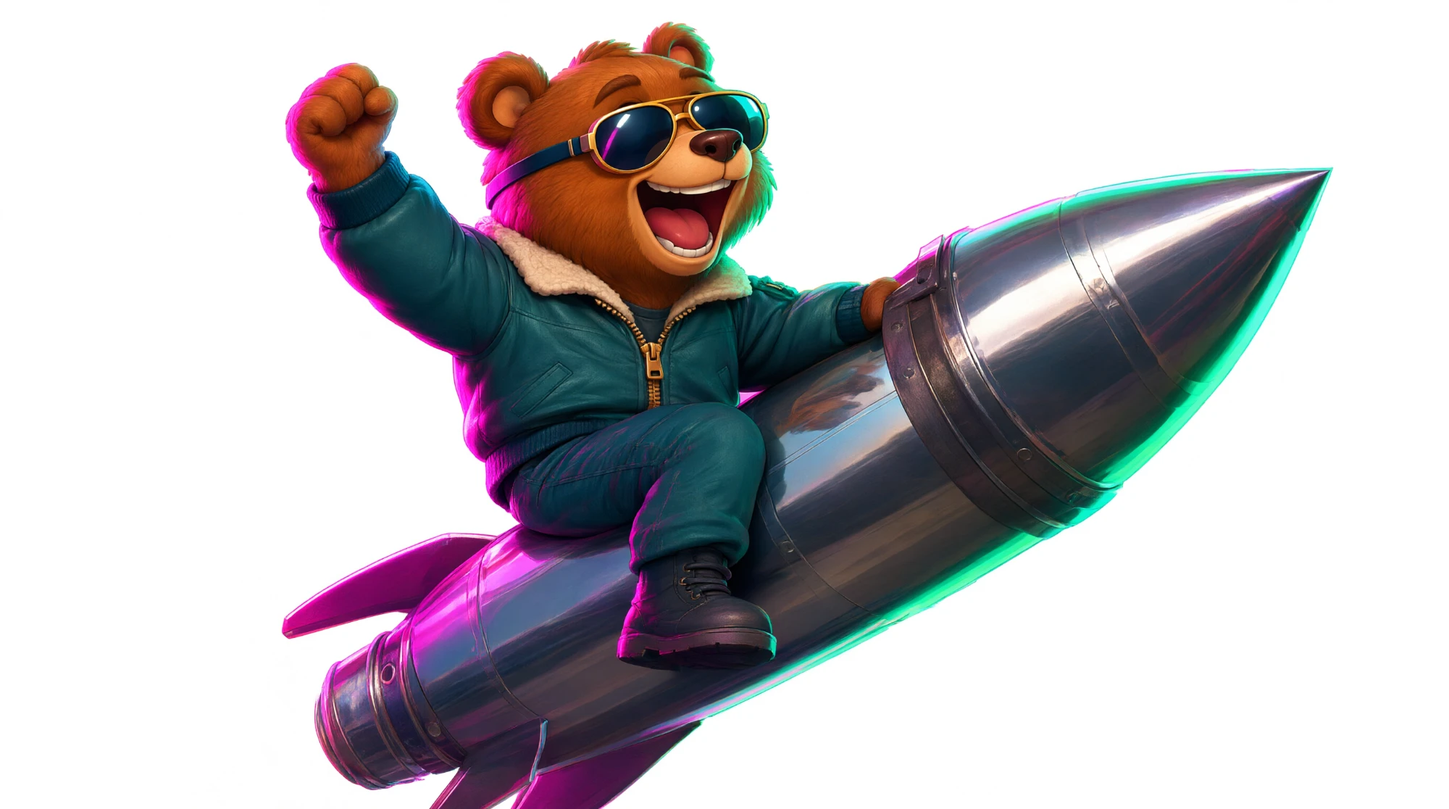
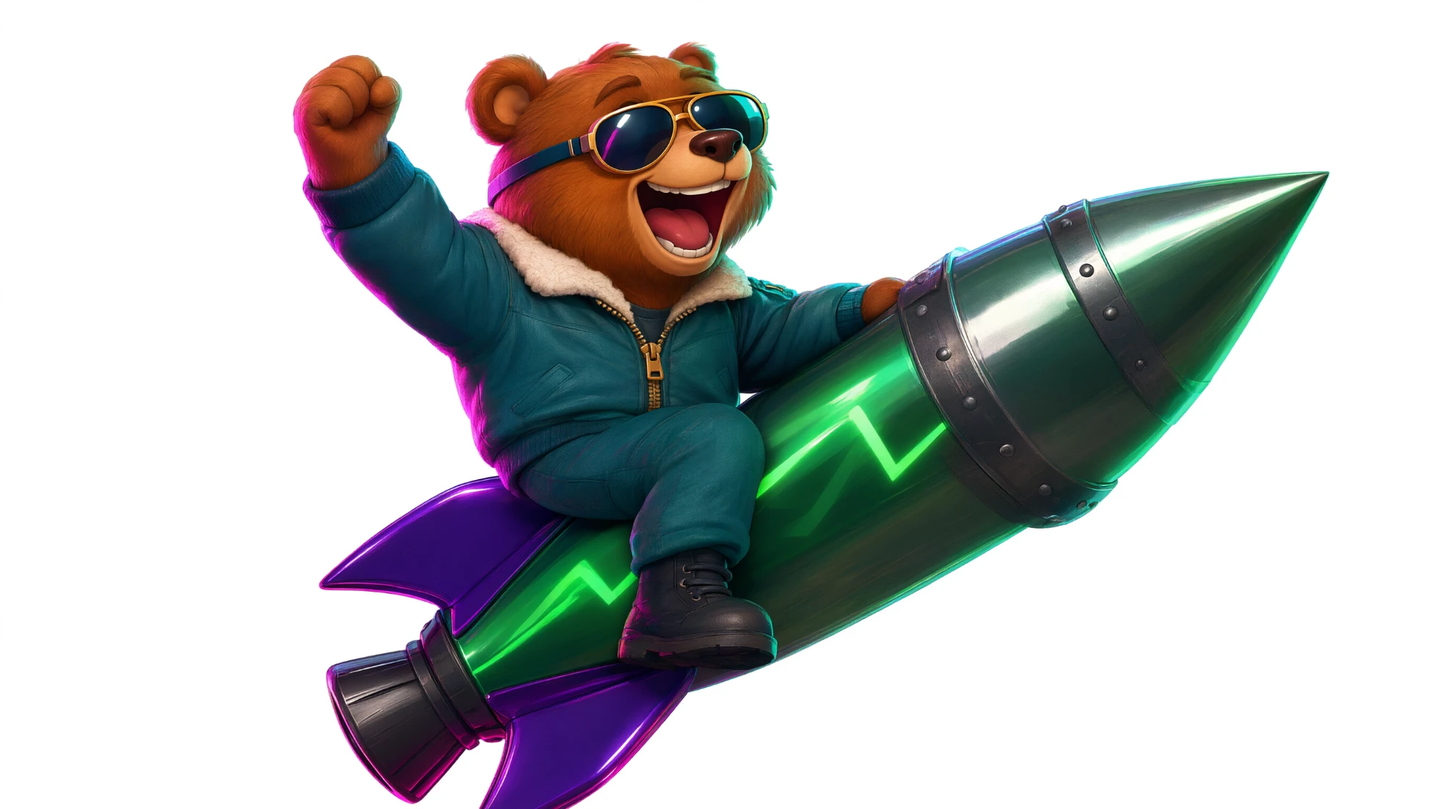
Bear art: the new green riding picture, straightened in the kit build
The generator's R1 picture (bear on a green riveted rocket) had its nose
bent 5.3 degrees up; the kit build now straightens each riding picture
from its landmarks (straighten.py, with a flood-filled mask so chrome
glints count as rocket). The rocket is green already, so the silver
recolour is gone; the silver set moves to src/silver. The brief asks for
the calm and the empty edits of the straightened base.

diff --git a/app/proto/kit.html b/app/proto/kit.html
@@ -31,7 +31,23 @@ ul{margin:6px 0;padding-left:20px}li{margin:3px 0;color:#d6d3ee}
 </style>
 <main>
 <h1>Медведь и ракета: что сгенерировать</h1>
-<p>Чтобы персонаж выглядел как на заставке, а не собранным из фигур, рисуем его генератором изображений, а игра потом анимирует готовые картинки: двигает тело, меняет головы с эмоциями, качает на парашюте. Готово: 2–10. Сейчас нужны R1 и R2 (первые зелёные блоки): медведь на готовой прямой зелёной ракете.</p>
+<p>Чтобы персонаж выглядел как на заставке, а не собранным из фигур, рисуем его генератором изображений, а игра потом анимирует готовые картинки: двигает тело, меняет головы с эмоциями, качает на парашюте. Готово: 2–10 и R1. Сейчас нужны две правки картинки R1: спокойный медведь (R2) и ракета без медведя (R4).</p>
+
+<div class="box new">
+  <h2>Сейчас: две правки картинки R1</h2>
+  <p>Картинка R1 получилась отличной. Нос у ракеты был загнут вверх на 5°, его уже выпрямили: ниже выпрямленная основа. Каждую правку делайте <b>от этой основы</b>, а не от предыдущего результата: так ракета и кадр совпадут на всех картинках, и смена эмоции в игре не будет заметна как подмена.</p>
+  <figure style="margin:10px 0 0"><img src="ride-base.jpg" alt="Медведь на прямой зелёной ракете, выпрямленная основа" style="width:100%;border-radius:12px;background:#fff;display:block"><figcaption class="muted" style="margin-top:4px">Основа: долгое нажатие → сохранить. <a href="ride-base.jpg" download style="color:var(--green)">Скачать файлом</a></figcaption></figure>
+  <p class="muted">В чате генератора прикрепите основу и дайте промпт R2. Для R4 снова прикрепите основу (не результат R2). Если нос в ответе опять чуть загнётся, ничего страшного: игра выпрямляет его сама.</p>
+</div>
+
+<div class="box new"><div class="step"><span class="num">R2</span><div><h2>Спокойный</h2><span class="file">ride-calm</span></div></div>
+<div class="prompt">Edit the attached picture. Keep everything exactly the same: the rocket (its shape, its perfectly straight line, its angle, size, position and colours), the bear's position, size, body and legs, the framing and the plain white background. Change only his arms and his face: the raised arm comes down and both paws hold the rocket's dark riveted band, a calm, confident closed-mouth smile.<button class="copy">Скопировать</button></div></div>
+
+<div class="box new"><div class="step"><span class="num">R4</span><div><h2>Ракета без медведя</h2><span class="file">ride-empty</span></div></div>
+<div class="prompt">Edit the attached picture: remove the bear completely. Keep the rocket exactly the same: its shape, its perfectly straight line, its angle, size, position and colours, the riveted bands, the fins and the nozzle. Where the bear covered the rocket, paint the rocket as it continues: the glossy green hull, the neon-green zig-zag line along the body, the complete dark band. No trace or shadow of the bear left. Keep the framing and the plain white background.<button class="copy">Скопировать</button></div></div>
+
+<div class="box new"><div class="step"><span class="num">R3</span><div><h2>В испуге (по желанию)</h2><span class="file">ride-scared</span></div></div>
+<div class="prompt">Edit the attached picture. Keep the rocket and the framing exactly the same and the bear in the same place and size. Change only his pose and his face: he clutches the rocket's dark band with both paws and leans back in fear, mouth open in a scream, eyebrows raised high above the glasses, a small sweat drop. Plain white background.<button class="copy">Скопировать</button></div></div>
 
 <div class="box">
   <h2>Перед началом</h2>
@@ -47,52 +63,52 @@ ul{margin:6px 0;padding-left:20px}li{margin:3px 0;color:#d6d3ee}
   </div>
 </div>
 
-<div class="box new">
+<div class="box">
   <h2>Самый надёжный способ: даём генератору готовую ракету (R1, R2)</h2>
   <p>Генератор рисует длинную ракету по диагонали с изгибом, сколько его ни проси. Поэтому даём ему уже готовую прямую зелёную ракету под нужным углом и просим только <b>добавить медведя</b>: при правке картинки он почти не трогает то, что на ней уже есть. Эта же картинка будет и ракетой без медведя, так что №10 не нужна.</p>
   <figure style="margin:10px 0 0"><img src="rocket-base.png" alt="Прямая зелёная ракета под углом полёта" style="width:100%;border-radius:12px;background:#fff;display:block"><figcaption class="muted" style="margin-top:4px">Основа: долгое нажатие → сохранить. <a href="rocket-base.png" download style="color:var(--green)">Скачать файлом</a></figcaption></figure>
   <p class="muted">В чате генератора прикрепите <b>основу</b> (первой) и <b>последнюю картинку медведя на зелёной ракете</b> (чтобы он взял медведя и позу), дайте промпт R1. Потом R2 как правку результата.</p>
 </div>
 
-<div class="box new"><div class="step"><span class="num">R1</span><div><h2>Добавить медведя на ракету</h2><span class="file">ride-hype</span></div></div>
+<div class="box"><div class="step"><span class="num">R1</span><div><h2>Добавить медведя на ракету</h2><span class="file">ride-hype</span></div></div>
 <div class="prompt">Edit the first attached picture (the green rocket on white). Do NOT change the rocket in any way: keep its shape, its perfectly straight line, its angle, size, position and colours, the zig-zag line, the band, the fins and the nozzle exactly as they are. The rocket must stay identical to the input picture; you may only paint over it where the bear covers it.
 
 Only add the bear from the other attached picture, sitting astride this rocket just behind the dark band, his body facing the nose: the near leg along the hull with the boot pressed against it, the far leg hidden behind the rocket, the far paw gripping the band, the near arm raised high with a clenched fist, an excited open-mouth laugh. A soft contact shadow of the bear on the hull, the hull reflecting his jacket.
 
 Keep the plain white background and the framing, the whole bear inside the picture.<button class="copy">Скопировать</button></div></div>
 
-<div class="box new"><div class="step"><span class="num">R2</span><div><h2>Он же, спокойный</h2><span class="file">ride-calm</span></div></div>
+<div class="box"><div class="step"><span class="num">R2</span><div><h2>Он же, спокойный</h2><span class="file">ride-calm</span></div></div>
 <div class="prompt">Edit the picture you just made. Keep everything exactly the same: the rocket, the bear's position, size and legs, the framing. Change only his arms and his face: both paws hold the rocket's dark band, a calm, confident smile. Plain white background.<button class="copy">Скопировать</button></div></div>
 
-<div class="box new"><div class="step"><span class="num">R3</span><div><h2>Он же, в испуге (по желанию)</h2><span class="file">ride-scared</span></div></div>
+<div class="box"><div class="step"><span class="num">R3</span><div><h2>Он же, в испуге (по желанию)</h2><span class="file">ride-scared</span></div></div>
 <div class="prompt">Edit the picture with the raised fist. Keep the rocket and the framing exactly the same and the bear in the same place. Change only his pose and his face: he clutches the rocket with both paws and leans back in fear, mouth open in a scream, eyebrows raised high above the glasses, a small sweat drop. Plain white background.<button class="copy">Скопировать</button></div></div>
 
-<div class="box new">
+<div class="box">
   <h2>Было: тот же медведь на старой зелёной ракете (7G, 8G, 10G)</h2>
   <p>Ракета в картинках 7–10 вышла серебряной и чуть изогнутой: нос отклонён от корпуса примерно на 6°. Перерисуем их со старой зелёной ракетой, она прямая.</p>
   <p class="muted">В чате генератора прикрепите <b>старую зелёную ракету</b> (картинка №6) и <b>картинку №7</b>, затем дайте промпт 7G. Потом 8G и 10G как правки получившейся картинки. Важно: ракета целиком в кадре, с соплом и стабилизаторами, с отступом от краёв.</p>
 </div>
 
-<div class="box new"><div class="step"><span class="num">7G</span><div><h2>Медведь верхом на зелёной ракете</h2><span class="file">ride-hype</span></div></div>
+<div class="box"><div class="step"><span class="num">7G</span><div><h2>Медведь верхом на зелёной ракете</h2><span class="file">ride-hype</span></div></div>
 <div class="prompt">Edit the attached picture of the bear riding the rocket: replace the rocket with the green rocket from the other attached picture, exactly its design: a glossy emerald-green chrome body, a pointed nose cone, a dark metal ring band behind the nose, a glowing neon-green zig-zag line along the body, violet-purple swept fins, a dark gunmetal nozzle.
 
 The rocket must be perfectly straight: the body and the nose on one straight axis. It flies diagonally up to the right at the same angle and size as now. Keep the bear exactly the same, in the same pose, sitting astride the rocket: the near leg along the hull with the boot pressed against it, the far leg hidden behind the rocket, the far paw on the band, the near arm raised with a fist, laughing; a soft contact shadow of the bear on the hull.
 
 The whole rocket inside the picture with a clear margin on every side, the nozzle and all the fins included. No flame, no smoke, no background: a plain pure white background.<button class="copy">Скопировать</button></div></div>
 
-<div class="box new"><div class="step"><span class="num">8G</span><div><h2>Он же, спокойный</h2><span class="file">ride-calm</span></div></div>
+<div class="box"><div class="step"><span class="num">8G</span><div><h2>Он же, спокойный</h2><span class="file">ride-calm</span></div></div>
 <div class="prompt">Edit the picture you just made. Keep everything else exactly the same: the green rocket, its position, angle and size, the bear's position, size and legs, the lighting and the framing. Change only his arms and his face: both paws now hold on to the rocket's dark band, a calm, confident smile. Plain pure white background.<button class="copy">Скопировать</button></div></div>
 
-<div class="box new"><div class="step"><span class="num">10G</span><div><h2>Зелёная ракета без медведя</h2><span class="file">ride-empty</span></div></div>
+<div class="box"><div class="step"><span class="num">10G</span><div><h2>Зелёная ракета без медведя</h2><span class="file">ride-empty</span></div></div>
 <div class="prompt">Edit the picture of the bear riding the green rocket (the one with the raised fist). Remove the bear completely and keep the rocket exactly the same: the same position, angle, size, lighting and framing. Where the bear was, show the rocket's hull, its zig-zag line and its band as they would look. Plain pure white background.<button class="copy">Скопировать</button></div></div>
 
-<div class="box new">
+<div class="box">
   <h2>Было: медведь на ракете одной картинкой (7–10)</h2>
   <p>Картинки 2–6 уже в прототипе. Но медведь, наклеенный на отдельную ракету, выглядит плоско: у них разная перспектива, он не обхватывает ракету ногами, нет тени и общего света. Поэтому рисуем их вместе, как на заставке. Игра будет двигать эту картинку целиком и добавит пламя и дым.</p>
   <p class="muted">Продолжайте в том же чате генератора, где делали медведя и ракету: так он сохранит их вид. Если начинаете новый чат, прикрепите заставку (референс 2), картинку «кулак вверх» и ракету.</p>
 </div>
 
-<div class="box new"><div class="step"><span class="num">7</span><div><h2>Медведь верхом на ракете</h2><span class="file">ride-hype</span>
+<div class="box"><div class="step"><span class="num">7</span><div><h2>Медведь верхом на ракете</h2><span class="file">ride-hype</span>
 <p class="muted">Главная картинка. Ракета по диагонали вверх-вправо, медведь сидит на ней верхом лицом к носу, кулак вверх. Без пламени и фона.</p></div></div>
 <div class="prompt">Use the attached pictures: the poster for the style and the composition, the bear and the rocket from before for the character and the rocket design.
 
@@ -102,15 +118,15 @@ He really sits ON the rocket: his weight presses on it, a soft contact shadow of
 
 No flame, no smoke, no stars, no sun, no background: only the rocket with the bear on a plain pure white background, the whole rocket inside the image with a margin. Glossy 3D cartoon render like the poster, synthwave rim light: hot pink from the left and below, neon cyan-green from the right. Square image.<button class="copy">Скопировать</button></div></div>
 
-<div class="box new"><div class="step"><span class="num">8</span><div><h2>Он же, спокойный</h2><span class="file">ride-calm</span>
+<div class="box"><div class="step"><span class="num">8</span><div><h2>Он же, спокойный</h2><span class="file">ride-calm</span>
 <p class="muted">Та же картинка, меняются только лапы и морда. Для площадки и первых секунд полёта.</p></div></div>
 <div class="prompt">Edit the picture you just made (the bear riding the rocket). Keep everything else exactly the same: the rocket, its position, angle and size, the bear's position, size and legs, the lighting and the framing. Change only his arms and his face: both paws now hold on to the rocket's dark band, a calm, confident smile. Plain pure white background.<button class="copy">Скопировать</button></div></div>
 
-<div class="box new"><div class="step"><span class="num">9</span><div><h2>Он же, в испуге</h2><span class="file">ride-scared</span>
+<div class="box"><div class="step"><span class="num">9</span><div><h2>Он же, в испуге</h2><span class="file">ride-scared</span>
 <p class="muted">Для момента, когда глохнет двигатель перед взрывом.</p></div></div>
 <div class="prompt">Edit the first picture of the bear riding the rocket (the one with the raised fist). Keep the rocket, its position, angle and size and the framing exactly the same, the bear in the same place. Change only his pose and face: he clutches the rocket with both paws and leans back in fear, mouth open in a scream, eyebrows raised high above the glasses, a small sweat drop. Plain pure white background.<button class="copy">Скопировать</button></div></div>
 
-<div class="box new"><div class="step"><span class="num">10</span><div><h2>Ракета без медведя</h2><span class="file">ride-empty</span>
+<div class="box"><div class="step"><span class="num">10</span><div><h2>Ракета без медведя</h2><span class="file">ride-empty</span>
 <p class="muted">Нужна для момента, когда медведь катапультируется и ракета летит дальше одна.</p></div></div>
 <div class="prompt">Edit the first picture of the bear riding the rocket. Remove the bear completely and keep the rocket exactly the same: the same position, angle, size, lighting and framing. Where the bear was, show the rocket's hull and band as they would look. Plain pure white background.<button class="copy">Скопировать</button></div></div>
 

diff --git a/art-kits/tools/bear_kit.py b/art-kits/tools/bear_kit.py
@@ -13,6 +13,9 @@ import json, os, sys
 import numpy as np
 from PIL import Image, ImageDraw, ImageFilter
 
+sys.path.insert(0, os.path.dirname(os.path.abspath(__file__)))
+from straighten import straighten
+
 SRC = os.path.join('art-kits', 'bear', 'src')
 OUT = os.path.join('app', 'art', 'bear')
 BODY_H = 440          # px height of the bear pictures in the game files
@@ -148,33 +151,6 @@ def holes(img, rgba, min_area=300, min_white=249):
     return Image.fromarray(out, 'RGBA')
 
 
-def convex_hull(pts):
-    pts = sorted(set(map(tuple, pts)))
-    cross = lambda o, a, b: (a[0] - o[0]) * (b[1] - o[1]) - (a[1] - o[1]) * (b[0] - o[0])
-    lo, up = [], []
-    for p in pts:
-        while len(lo) >= 2 and cross(lo[-2], lo[-1], p) <= 0: lo.pop()
-        lo.append(p)
-    for p in reversed(pts):
-        while len(up) >= 2 and cross(up[-2], up[-1], p) <= 0: up.pop()
-        up.append(p)
-    return lo[:-1] + up[:-1]
-
-
-def restore_convex(src, cut, x0):
-    """The chrome nose has pure white glints touching its edge, so they went with the background. The nose is convex:
-    right of x0 everything inside the outline of what is left is rocket, put back from the source picture."""
-    s = np.asarray(src.convert('RGB')); c = np.asarray(cut).copy()
-    ys, xs = np.where(c[:, x0:, 3] > 128)
-    hp = convex_hull(np.stack([xs + x0, ys], 1)[::7])
-    S = 4; m = Image.new('L', (c.shape[1] * S, c.shape[0] * S)); ImageDraw.Draw(m).polygon([(x * S + S / 2, y * S + S / 2) for x, y in hp], fill=255)
-    hm = np.asarray(m.resize((c.shape[1], c.shape[0]), Image.BOX)).astype(int); hm[:, :x0] = 0
-    inner = np.asarray(Image.fromarray(((hm > 250) * 255).astype(np.uint8)).filter(ImageFilter.MinFilter(9))) > 0
-    fix = inner | ((hm > 0) & (c[..., 3] == 0))
-    c[fix, :3] = s[fix]; c[..., 3] = np.maximum(c[..., 3], np.where(fix, hm, 0)).astype(np.uint8)
-    return Image.fromarray(c, 'RGBA')
-
-
 def scale(im, k):
     return im.resize((max(1, round(im.width * k)), max(1, round(im.height * k))), Image.LANCZOS)
 
@@ -190,92 +166,48 @@ def fade_bottom(im, frac=.16):
 
 # ---------------- the bear riding the rocket ----------------
 RIDE_K = .32                                     # the riding pictures are made 2000 px wide; the game files are 640
-# the axis runs from the nose tip to the centre of the nozzle's rear face, picked on the pictures: the generator's hull
-# bends a little in perspective and its nozzle is cut by the picture's edge, so a line fitted on the nose misses the nozzle
-RIDE_TIP, RIDE_TAIL = (1840, 232), (472, 1000)
-EMPTY_TIP, EMPTY_TAIL = (1690, 77), (500, 880)
-BOOT = [(850, 772), (1005, 765), (1068, 795), (1082, 880), (1058, 920), (858, 920), (845, 860)]   # the near boot, on the hull
-GREEN = [(0, (2, 14, 8)), (.1, (4, 48, 27)), (.25, (8, 112, 62)), (.42, (18, 176, 98)), (.6, (60, 230, 140)), (.8, (165, 255, 205)), (1, (240, 255, 248))]
+# The generator bends the nose a few degrees off the hull, so each picture is straightened (straighten.py) from its
+# landmarks, picked on the picture: the centres of the nozzle's rear face and of the band's rear and front faces.
+# A picture that is already straight (an edit of the straightened one) needs none.
+RIDE_FIX = {'hype': ((511.5, 1016.5), (1331.5, 560), (1396, 528.5))}
+# the axis of the straightened riding pictures: the centre of the nozzle's rear face and the nose tip
+RIDE_TAIL, RIDE_TIP = (511.5, 1016.5), (1857, 281)
+RIDE_CHEST = (880, 400)                          # where the bear leaves the rocket from at the bail-out
+# the rocket alone for after the bail-out: its landmarks and axis, picked on its picture
+EMPTY_FIX = None
+EMPTY_TAIL, EMPTY_TIP = None, None
 
 
-def axis_frame(shape, tail, tip):
-    """Per pixel: S along the axis from the tail, D across it (positive below), and the axis length."""
-    L = np.linalg.norm(tip - tail); u = (tip - tail) / L; n = np.array([-u[1], u[0]])
-    yy, xx = np.mgrid[0:shape[0], 0:shape[1]]
-    rx, ry = xx - tail[0], yy - tail[1]
-    return rx * u[0] + ry * u[1], rx * n[0] + ry * n[1], L, u, n
-
-
-def hull_radius(A, S, D, L):
-    """The hull's half width along the axis, from its free lower edge; the rear (fins, the cut bottom) keeps the middle's."""
-    rs = np.zeros(int(L) + 5)
-    below = A & (D > 0)
-    for s in range(0, int(L) + 1, 4):
-        sel = below & (np.abs(S - s) < 2)
-        rs[s:s + 4] = D[sel].max() if sel.any() else 0
-    mid = np.median(rs[int(L * .3):int(L * .55)])
-    rs[:int(L * .3)] = mid
-    return lambda s: np.interp(s, np.arange(len(rs)), rs)
-
-
-def greenify(img, tail, tip, protect=None):
-    """The silver chrome of the hull turned emerald, like the separate rocket, with its neon zig-zag along the body.
-    Only grey metal inside the hull changes: the bear, the pink and cyan rims and the violet fins keep their colours."""
-    a = np.asarray(img).astype(np.float32); rgb = a[..., :3] / 255; al = a[..., 3]
-    S, D, L, u, n = axis_frame(al.shape, tail, tip)
-    rad = hull_radius(al > 128, S, D, L)
-    hull = (S > -L * .03) & (S < L * 1.01) & (np.abs(D) <= rad(np.clip(S, 0, L)) + 4) & (al > 0)
-    mx, mn = rgb.max(axis=2), rgb.min(axis=2); sat = (mx - mn) / (mx + 1e-4); Y = rgb @ np.array([.299, .587, .114])
-    # grey metal and the sky's blue-violet in it turn green; the hot pink and cyan rims (strong colour) stay
-    hue = np.degrees(np.arctan2(np.sqrt(3) * (rgb[..., 1] - rgb[..., 2]), 2 * rgb[..., 0] - rgb[..., 1] - rgb[..., 2])) % 360
-    rim = (sat > .5) & (((hue > 280) | (hue < 20)) | ((hue > 140) & (hue < 200)))
-    w = np.clip(1.25 - sat / .6, 0, 1) * hull * ~rim
-    if protect is not None:                       # the boot: its dark leather stays, the bright hull around it turns
-        pm = Image.new('L', img.size); ImageDraw.Draw(pm).polygon(protect, fill=255)
-        w = np.where((np.asarray(pm) > 0) & (Y < .3), 0, w)
-    xs = [p for p, _ in GREEN]; ramp = np.stack([np.interp(Y, xs, [c[i] for _, c in GREEN]) for i in range(3)], -1)
-    out = a.copy(); out[..., :3] = a[..., :3] * (1 - w[..., None]) + ramp * w[..., None]
-    # the zig-zag: a glow and a core, only on the metal (the boot and the legs cover it)
-    r0 = float(rad(L * .45))
-    pts = [(L * s, r0 * d) for s, d in [(.16, .22), (.27, .22), (.32, .02), (.4, .34), (.46, .06), (.53, .3), (.6, .16)]]
-    to_xy = lambda s, d: (tail[0] + u[0] * s + n[0] * d, tail[1] + u[1] * s + n[1] * d)
-    line = [to_xy(s, d) for s, d in pts]
-    glow = Image.new('L', img.size); ImageDraw.Draw(glow).line(line, fill=255, width=max(4, int(r0 * .12)), joint='curve')
-    glow = np.asarray(glow.filter(ImageFilter.GaussianBlur(r0 * .06))).astype(np.float32) / 255
-    core = Image.new('L', img.size); ImageDraw.Draw(core).line(line, fill=255, width=max(2, int(r0 * .035)), joint='curve')
-    core = np.asarray(core.filter(ImageFilter.GaussianBlur(1))).astype(np.float32) / 255
-    metal = (w > .5).astype(np.float32)
-    g1 = (glow * .85 * metal)[..., None]; c1 = (core * metal)[..., None]
-    out[..., :3] = out[..., :3] * (1 - g1) + np.array([43, 255, 136]) * g1
-    out[..., :3] = out[..., :3] * (1 - c1) + np.array([210, 255, 230]) * c1
-    return Image.fromarray(np.clip(out, 0, 255).astype(np.uint8), 'RGBA')
-
-
-def cut_ride(path):
-    sp = Image.open(path)
-    c = restore_convex(sp, holes(sp, remove_white(sp)), 1262)
+def cut_ride(path, fix):
+    sp = Image.open(path).convert('RGB')
+    if fix:
+        sp, bend = straighten(sp, *fix)
+        sp = sp.convert('RGB')
+        print(os.path.basename(path), 'nose bent by %.2f degrees, straightened' % bend, file=sys.stderr)
+    c = holes(sp, remove_white(sp))
     a = np.asarray(c).copy(); hgt = a.shape[0]; n = 40          # the picture's cut bottom edge melts away
     a[hgt - n:, :, 3] = (a[hgt - n:, :, 3] * np.linspace(1, 0, n)[:, None]).astype(np.uint8)
     return Image.fromarray(a, 'RGBA')
 
 
 def build_ride(kit):
-    """The bear riding the rocket, one picture per face (edits of one picture: same rocket, same framing), the rocket
-    turned green, and the rocket alone for the bail-out laid along the same axis."""
+    """The bear riding the rocket, one picture per face (edits of one picture: same rocket, same framing), and the
+    rocket alone for the bail-out laid along the same axis."""
     faces = [f for f in ['calm', 'hype', 'scared'] if os.path.exists(os.path.join(SRC, 'ride-' + f + '.webp'))]
     if not faces:
         return
-    ride = {f: cut_ride(os.path.join(SRC, 'ride-' + f + '.webp')) for f in faces}
+    ride = {f: cut_ride(os.path.join(SRC, 'ride-' + f + '.webp'), RIDE_FIX.get(f)) for f in faces}
     tail, tip = np.array(RIDE_TAIL, float), np.array(RIDE_TIP, float); ang = float(np.arctan2(tip[1] - tail[1], tip[0] - tail[0]))
     print('ride axis', tail.round(1), tip.round(1), round(np.degrees(ang), 2), file=sys.stderr)
     for f, im in ride.items():
-        scale(greenify(im, tail, tip, BOOT), RIDE_K).save(os.path.join(OUT, 'ride-' + f + '.webp'), 'WEBP', quality=86, method=6)
+        scale(im, RIDE_K).save(os.path.join(OUT, 'ride-' + f + '.webp'), 'WEBP', quality=86, method=6)
     W0, H0 = ride[faces[0]].size
     kit['ride'] = {'w': round(W0 * RIDE_K), 'h': round(H0 * RIDE_K), 'tail': (tail * RIDE_K).round(1).tolist(), 'tip': (tip * RIDE_K).round(1).tolist(),
-                   'angle': round(ang, 4), 'chest': [round(860 * RIDE_K), round(440 * RIDE_K)], 'faces': faces}
+                   'angle': round(ang, 4), 'chest': [round(c * RIDE_K) for c in RIDE_CHEST], 'faces': faces}
     ep = os.path.join(SRC, 'ride-empty.webp')
     if os.path.exists(ep):
-        e = cut_ride(ep)
+        assert EMPTY_TAIL and EMPTY_TIP, 'pick the axis of ride-empty.webp first'
+        e = cut_ride(ep, EMPTY_FIX)
         et, ep2 = np.array(EMPTY_TAIL, float), np.array(EMPTY_TIP, float); ea = float(np.arctan2(ep2[1] - et[1], ep2[0] - et[0]))
         k = np.linalg.norm(tip - tail) / np.linalg.norm(ep2 - et); rot = ang - ea
         c, s_ = np.cos(rot) * k, np.sin(rot) * k
@@ -284,7 +216,7 @@ def build_ride(kit):
         Mi = np.linalg.inv(M); ti = -Mi @ t
         e = e.transform((W0, H0), Image.AFFINE, (Mi[0, 0], Mi[0, 1], ti[0], Mi[1, 0], Mi[1, 1], ti[1]), resample=Image.BICUBIC)
         print('empty rocket: scale', round(k, 3), 'turn', round(np.degrees(rot), 2), file=sys.stderr)
-        scale(greenify(e, tail, tip), RIDE_K).save(os.path.join(OUT, 'ride-empty.webp'), 'WEBP', quality=86, method=6)
+        scale(e, RIDE_K).save(os.path.join(OUT, 'ride-empty.webp'), 'WEBP', quality=86, method=6)
 
 
 if __name__ == '__main__':

diff --git a/art-kits/tools/straighten.py b/art-kits/tools/straighten.py
@@ -35,9 +35,23 @@ def cone_bend(A, O, u, n):
     return float(np.degrees(np.arctan(k))), ss, mids
 
 
+def mask(img):
+    """The rocket's pixels: opaque ones, or on a white sheet everything but the white connected to the border (a white
+    threshold alone would cut the near-white glints of a chrome nose out of the rocket)."""
+    if img.mode == 'RGBA':
+        return np.asarray(img)[..., 3] > 128
+    white = np.asarray(img.convert('RGB')).min(axis=2) >= 235
+    b = Image.fromarray(np.where(white, 255, 0).astype(np.uint8), 'L').copy()
+    H, W = white.shape
+    for x, y in [(x, y) for x in range(0, W, 7) for y in (0, H - 1)] + [(x, y) for y in range(0, H, 7) for x in (0, W - 1)]:
+        if b.getpixel((x, y)) == 255:
+            ImageDraw.floodfill(b, (x, y), 128)
+    return np.asarray(b) != 128
+
+
 def straighten(img, nozzle, band_rear, band_front, theta=None):
     a = np.asarray(img.convert('RGBA')).astype(np.float32)
-    A = a[..., 3] > 128 if img.mode == 'RGBA' else np.asarray(img.convert('RGB')).min(axis=2) < 235
+    A = mask(img)
     N, P, O = map(lambda p: np.array(p, float), (nozzle, band_rear, band_front))
     u = (P - N) / np.linalg.norm(P - N); n = np.array([-u[1], u[0]])
     bend, _, _ = cone_bend(A, O, u, n)
@@ -81,5 +95,5 @@ if __name__ == '__main__':
             N, P = np.array(v[0:2]), np.array(v[2:4]); u = (P - N) / np.linalg.norm(P - N)
             d.line([tuple(N - u * 60), tuple(N + u * 1400)], fill=(255, 0, 0), width=2)
             pic.save(dst.rsplit('.', 1)[0] + '-' + name + '.jpg', quality=88)
-        bend2, _, _ = cone_bend(np.asarray(out.convert('RGB')).min(axis=2) < 235, np.array(v[4:6]), u, np.array([-u[1], u[0]]))
+        bend2, _, _ = cone_bend(mask(out.convert('RGB') if im.mode == 'RGB' else out), np.array(v[4:6]), u, np.array([-u[1], u[0]]))
         print('after: cone off the body line by %.2f degrees' % bend2)
